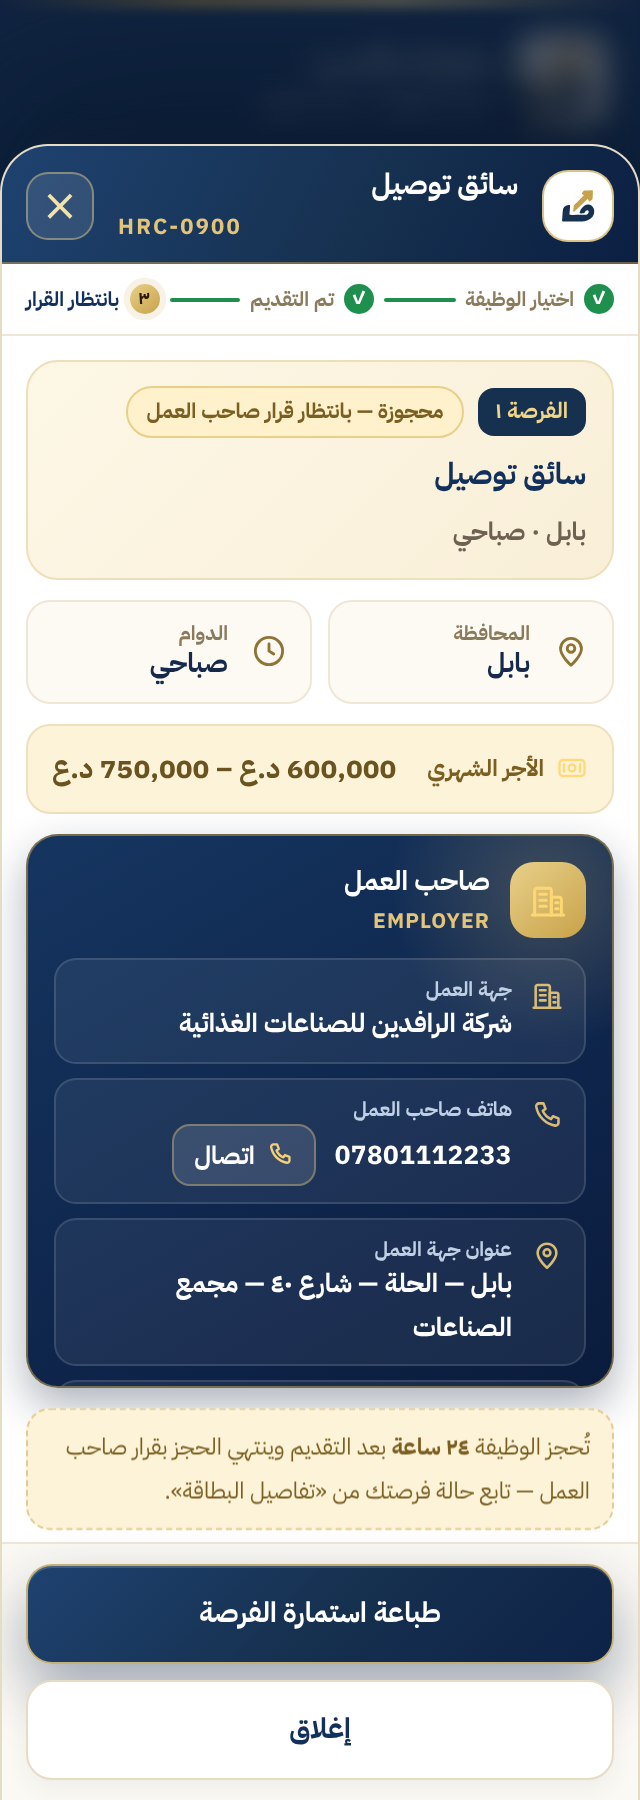
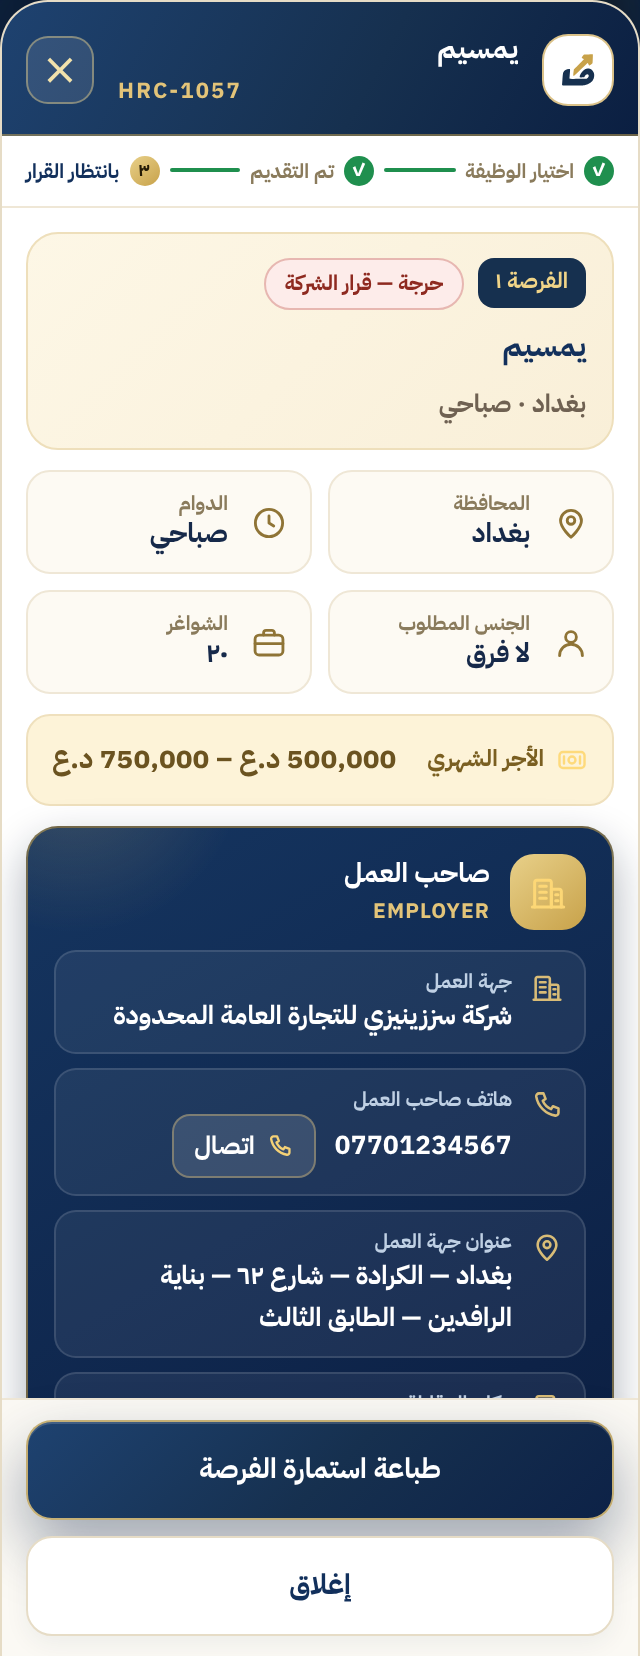
إصلاح اقتطاع أقسام نافذة «تفاصيل الوظيفة وصاحب العمل»
العراض: كارت صاحب العمل كان يظهر بارتفاع ~29px لمحتوى يحتاج 304px،
وقسم المتطلبات طالع فوقه، ورأس النافذة منضغط على الشاشات الضيقة.

السبب: العنصر الذي يحمل overflow:hidden ويصبح «حاوية تمرير» داخل شبكة
CSS يُحسب ارتفاعه دقيقاً/صفراً في مسار تخطيط الشبكة في Chromium.

الإصلاح:
- أُزيل overflow:hidden من .cdt-emp و.cdt-hero، والهالة الزخرفية صارت
  radial-gradient في خلفية القسم بدل ::before مقصوص.
- align-items:start على شبكة .cdt-body.
- .cdt-head و.cdt-steps و.cdt-foot → flex:none، و.cdt-body وحده
  flex:1 1 auto;min-height:0 — فلا ينضغط الرأس ولا تُقتطع عناوينه.
- نفس العلّة كانت كامنة في نافذة الوظيفة القديمة (job-modal-head/foot
  بلا flex:none) فأُصلحت وقائياً بنفس النمط.
- تمييز الصفوف: شريط أخضر لـ«تم التقديم» وذهبي لـ«مختارة للمراجعة».

حرس ضد التكرار:
- tests/chosen-details-browser.mjs يقيس كل قسم مقابل محتواه ويرفض أي
  قصّ (77 فحصاً) — تأكّدنا أنه يفشل على الشيفرة القديمة وينجح على المُصلَحة.
- الخطوة ٤٠ في tests/schema.mjs تفحص القواعد نصياً (319/6 = الأساس).
- sw.js → hrc-cache-v159 · لقطات 320/390 محدّثة + توثيق السبب.

diff --git a/apply.html b/apply.html
@@ -3988,9 +3988,11 @@ body.job-modal-open .app{
   .job-modal-box{width:min(680px,100%);border-radius:22px;border-bottom:1px solid #E6DCC6}
 }
 
-/* رأس النافذة: كحلي بحدود ذهبية */
+/* رأس النافذة: كحلي بحدود ذهبية
+   flex:none على الرأس والجسم والقدم — بدونها ينضغط الرأس/القدم في عمود flex
+   عند ضيق الشاشة فيُقتطع عنوان الوظيفة وأزرارها (نفس عطل 2026-11-08). */
 .job-modal-head{
-  display:flex;align-items:center;gap:12px;padding:14px 16px;
+  flex:none;display:flex;align-items:center;gap:12px;padding:14px 16px;
   background:linear-gradient(120deg,#1E4270,#16304F 62%,#0D2247);
   border-block-end:1px solid rgba(200,162,74,.55);
 }
@@ -4026,6 +4028,7 @@ body.job-modal-open .app{
 
 /* الجسم */
 .job-modal-body{
+  flex:1 1 auto;min-height:0;
   padding:14px 16px 6px;overflow-y:auto;overflow-x:hidden;-webkit-overflow-scrolling:touch;
   display:grid;grid-template-columns:minmax(0,1fr);gap:12px;background:#FFFFFF;
   overflow-wrap:anywhere;
@@ -4066,7 +4069,7 @@ body.job-modal-open .app{
 
 /* الأزرار */
 .job-modal-foot{
-  display:flex;gap:8px;flex-wrap:wrap;min-width:0;
+  flex:none;display:flex;gap:8px;flex-wrap:wrap;min-width:0;
   padding:12px 16px calc(12px + env(safe-area-inset-bottom,0px));
   border-block-start:1px solid #EFE7D6;background:#FBF9F4;
 }
@@ -4706,7 +4709,8 @@ body.chosen-modal-open .app{
 
 /* ── الرأس ── */
 .cdt-head{
-  position:relative;overflow:hidden;display:flex;align-items:center;gap:12px;
+  /* flex:none — بدونها ينضغط الرأس عند ضيق الشاشة فيُقتطع عنوانه (عطل 2026-11-08) */
+  position:relative;overflow:hidden;flex:none;display:flex;align-items:center;gap:12px;
   padding:15px 16px 13px;
   background:linear-gradient(118deg,#1E4270,#16304F 58%,#0B1F42);
   border-block-end:1px solid rgba(200,162,74,.5);
@@ -4731,7 +4735,7 @@ body.chosen-modal-open .app{
 
 /* ── شريط المراحل ── */
 .cdt-steps{
-  display:flex;align-items:center;gap:7px;padding:10px 16px;
+  flex:none;display:flex;align-items:center;gap:7px;padding:10px 16px;
   background:#FFFFFF;border-block-end:1px solid #EFE7D6;
   font-size:11px;font-weight:800;color:#8A7B5C;
 }
@@ -4748,8 +4752,10 @@ body.chosen-modal-open .app{
 
 /* ── الجسم ── */
 .cdt-body{
+  flex:1 1 auto;min-height:0;
   padding:14px 16px 8px;overflow-y:auto;overflow-x:hidden;-webkit-overflow-scrolling:touch;
-  display:grid;grid-template-columns:minmax(0,1fr);gap:11px;background:#fff;overflow-wrap:anywhere;
+  display:grid;grid-template-columns:minmax(0,1fr);align-items:start;gap:11px;
+  background:#fff;overflow-wrap:anywhere;
 }
 .cdt-anim{animation:cdtUp .44s cubic-bezier(.22,1,.36,1) both;animation-delay:calc(var(--i,0) * 55ms)}
 
@@ -4777,14 +4783,16 @@ body.chosen-modal-open .app{
 .cdt-meta{margin:0;font-size:12.5px;font-weight:700;color:#6F6152;line-height:1.7}
 
 /* ── كارت صاحب العمل (البطل) ── */
+/* تحذير (2026-11-08) — لا overflow:hidden على أقسام النافذة: العنصر الذي صار «حاوية تمرير»
+   داخل شبكة CSS يحصل على ارتفاع دقيق صفر في Chromium، فينكمش القسم إلى
+   حشوته ويُقتطع محتواه (عطل ظهر فعلاً: كارت صاحب العمل 29px لمحتوى 304px).
+   الهالة الزخرفية صارت طبقة خلفية داخل نفس القسم بدل عنصر ::before مقصوص. */
 .cdt-emp{
-  position:relative;overflow:hidden;padding:13px 13px 12px;border-radius:16px;color:#fff;
-  background:linear-gradient(150deg,#153560,#0D2247 72%,#0A1C3C);
+  position:relative;padding:13px 13px 12px;border-radius:16px;color:#fff;
+  background:
+    radial-gradient(118px 118px at 8% -8%, #e3c47933, transparent 72%),
+    linear-gradient(150deg,#153560,#0D2247 72%,#0A1C3C);
   border:1px solid rgba(200,162,74,.55);box-shadow:0 9px 22px #0b1b3455;
-}
-.cdt-emp::before{
-  content:'';position:absolute;inset-inline-start:-46px;inset-block-start:-52px;width:158px;height:158px;
-  border-radius:50%;background:radial-gradient(circle,#e3c47938,transparent 70%);pointer-events:none;
 }
 .cdt-emp-h{position:relative;display:flex;align-items:center;gap:10px;margin:0 0 10px}
 .cdt-emp-ic{
@@ -4818,10 +4826,11 @@ body.chosen-modal-open .app{
 
 /* نسخة «محميّة» للمختارة للمراجعة — لا نختلق بيانات صاحب عمل قبل التقديم */
 .cdt-emp.is-locked{
-  background:linear-gradient(150deg,#FBF8F1,#F6F0E2);
+  background:
+    radial-gradient(118px 118px at 8% -8%, #c8a24a1f, transparent 72%),
+    linear-gradient(150deg,#FBF8F1,#F6F0E2);
   border:1px dashed rgba(200,162,74,.75);box-shadow:none;color:#5A4A2A;
 }
-.cdt-emp.is-locked::before{background:radial-gradient(circle,#c8a24a22,transparent 70%)}
 .cdt-emp.is-locked .cdt-emp-ic{background:#16304F;color:#E3C479}
 .cdt-emp.is-locked .cdt-emp-h b{color:#12305C}
 .cdt-emp.is-locked .cdt-emp-h small{color:#9A7F35}
@@ -4849,7 +4858,7 @@ body.chosen-modal-open .app{
 
 /* ── الأزرار ── */
 .cdt-foot{
-  display:flex;gap:8px;flex-wrap:wrap;min-width:0;padding:12px 16px calc(12px + env(safe-area-inset-bottom,0px));
+  flex:none;display:flex;gap:8px;flex-wrap:wrap;min-width:0;padding:12px 16px calc(12px + env(safe-area-inset-bottom,0px));
   border-block-start:1px solid #EFE7D6;background:#FBF9F4;
 }
 .cdt-foot .btn{min-height:46px!important;font-size:14px!important;border-radius:13px!important;flex:1 1 140px!important}
@@ -4865,6 +4874,10 @@ body.chosen-modal-open .app{
 .chosen-item.is-tappable:hover{background:#ffffff0f}
 .chosen-item.is-tappable:active{background:#ffffff18}
 .chosen-item.is-tappable:focus-visible{outline:3px solid #f0d488;outline-offset:-3px;border-radius:10px}
+/* تمييز خفيف: صف «تم التقديم» بشريط أخضر جانبي، و«مختارة» بشريط ذهبي —
+   حتى لا تتشابه الصفوف ويضيع القارئ بين ما أُرسل وما لم يُرسل بعد. */
+.chosen-item.is-applied{padding-inline-start:11px;border-inline-start:3px solid #4bc08d;border-radius:4px 0 0 4px}
+.chosen-item.is-picked-row{padding-inline-start:11px;border-inline-start:3px solid #e8c56d;border-radius:4px 0 0 4px}
 .chosen-cta{
   grid-area:cta;display:inline-flex;align-items:center;gap:6px;justify-self:start;
   margin-top:2px;padding:5px 10px 5px 8px;border-radius:9px;
@@ -6657,7 +6670,7 @@ var G={
     /* كل صف قابل للفتح: تفاصيل الوظيفة + تفاصيل صاحب العمل في نافذة واحدة */
     var cta='<span class="chosen-cta" aria-hidden="true">التفاصيل وصاحب العمل<svg viewBox="0 0 24 24"><path d="M14 5l-7 7 7 7"/></svg></span>';
     var rows=appliedJobs.map(function(j){
-      return '<div class="chosen-item is-tappable" role="button" tabindex="0"'+
+      return '<div class="chosen-item is-tappable is-applied" role="button" tabindex="0"'+
         ' data-chosen-kind="applied" data-chosen-key="'+esc(j.jobCode)+'"'+
         ' aria-label="عرض تفاصيل وظيفة '+esc(j.jobTitle||'وظيفة سابقة')+' وصاحب العمل"'+
         ' onclick="G.chosenRow(event,\'applied\',\''+esc(j.jobCode)+'\')"'+
@@ -6672,7 +6685,7 @@ var G={
        بعرض كامل كي لا ينكسر الاسم الطويل. الاختيار لا يستهلك أي فرصة. */
     pickedJobs.forEach(function(j,i){
       var no=G.chanceNumber(i);
-      rows.push('<div class="chosen-item is-tappable" role="button" tabindex="0"'+
+      rows.push('<div class="chosen-item is-tappable is-picked-row" role="button" tabindex="0"'+
         ' data-chosen-kind="picked" data-chosen-key="'+i+'"'+
         ' aria-label="عرض تفاصيل وظيفة '+esc(j.title)+' والفرصة '+ar(no)+'"'+
         ' onclick="G.chosenRow(event,\'picked\','+i+')"'+

diff --git a/sw.js b/sw.js
@@ -1,4 +1,4 @@
-// Service Worker للعمل أوفلاين — hrc-cache-v158
+// Service Worker للعمل أوفلاين — hrc-cache-v159
 // ---------------------------------------------------------------------------
 // سياسة التخزين منذ v4:
 //   • HTML و JS  → network-first: الشبكة أولاً (الزائر يرى آخر نسخة)، والكاش
@@ -41,7 +41,7 @@
    إن كان مطابقاً. إبقاء الرقم ثابتاً يُبقي الزوار القدامى على نسخة قديمة
    من index.html مهما أعدت النشر (ظهر فعلاً: زر دخول محذوف بقي على حاسبة
    زارت الموقع قبل الحذف، بينما اختفى على هاتف لم يزره من قبل). */
-const CACHE_NAME = 'hrc-cache-v158';
+const CACHE_NAME = 'hrc-cache-v159';
 // Only public job illustrations / public Supabase Storage objects; never API or private images.
 const IMAGE_CACHE = 'hrc-public-job-images-v1';
 const IMAGE_META = 'hrc-public-job-image-meta-v1';

diff --git a/docs/card-chances-redesign.md b/docs/card-chances-redesign.md
@@ -168,3 +168,39 @@ npm test                              # 140 / 0
 - `docs/preview/shots/chosen-applied-390.png` — صف «تم التقديم»: وظيفة + صاحب عمل.
 - `docs/preview/shots/chosen-picked-390.png` — صف «مختارة للمراجعة»: لا اختلاق بيانات.
 - `docs/preview/shots/chosen-panel-390.png` — اللوحة وفيها شارة «التفاصيل وصاحب العمل».
+
+---
+
+## إصلاح 2026-11-08 — اقتطاع أقسام النافذة (بلاغ المالك)
+
+**العراض:** على الشاشة الحقيقية ظهر كارت صاحب العمل مقتصّاً (ارتفاعه ~29px
+لمحتوى يحتاج 304px)، وقسم المتطلبات طالع فوقه، ورأس النافذة ينضغط.
+
+**السبب الجذري (عطل Chromium حقيقي):** العنصر الذي يحمل `overflow:hidden`
+ويصبح «حاوية تمرير» داخل شبكة CSS يُحسب ارتفاعه صفراً/دقيقاً في مسار
+تخطيط الشبكة. `#chosen-modal-body` شبكة، وأبناءه `.cdt-emp` و`.cdt-hero`
+كانوا `overflow:hidden` (لتدوير الهالة الزخرفية) ⇒ انكمشوا لحشوتهم واقتطعوا
+محتواهم. أُثبت ذلك تجريبياً: نفس العنصر بـ `overflow:visible` يعطي 306px.
+
+**الإصلاح:**
+1. أُزيل `overflow:hidden` من أقسام النافذة، والهالة الزخرفية صارت طبقة
+   `radial-gradient` في خلفية القسم نفسه بدل `::before` مقصوص.
+2. `align-items:start` على شبكة الجسم حتى يأخذ كل قسم ارتفاعه الطبيعي.
+3. أبناء عمود النافذة: `.cdt-head` و`.cdt-steps` و`.cdt-foot` صارت `flex:none`،
+   و`.cdt-body` وحده `flex:1 1 auto;min-height:0` — فلا ينضغط الرأس عند ضيق
+   الشاشة ولا يقتطع عنوانه.
+4. نفس العلّة كانت كامنة في نافذة الوظيفة القديمة (`job-modal-head/foot`
+   بلا `flex:none`) — أُصلحت وقائياً بنفس النمط.
+5. تمييز بصري للصفوف: شريط أخضر لـ«تم التقديم» وذهبي لـ«مختارة للمراجعة»،
+   حتى لا تتشابه الصفوف ويضيع القارئ بين ما أُرسل وما لم يُرسل.
+
+**حرس ضد التكرار:** `tests/chosen-details-browser.mjs` صار يقيس كل قسم مقابل
+محتواه (`scrollHeight` مقابل `clientHeight`) ويرفض أي قصّ، ويتحقق أن كارت
+صاحب العمل ≥ ٢٥٠px وأن الرأس ≥ ٦٠px؛ والخطوة ٤٠ في `schema.mjs` تفحص القواعد
+نصياً. تأكّدنا أن الفحص الجديد **يفشل** على الشيفرة القديمة (29px/51px) وينجح
+على المُصلَحة (306px).
+
+النتيجة: `test:chosen-details-browser` **٧٧/٠** · `test:schema` **319/6**
+(الستة نفسها في الأساس) · `npm test` 140/0 · `test:apply` 117/0 ·
+`test:apply-mobile-browser` 66/0 · `chances-summary` 82/0 ·
+`sw.js` → `hrc-cache-v159`.
